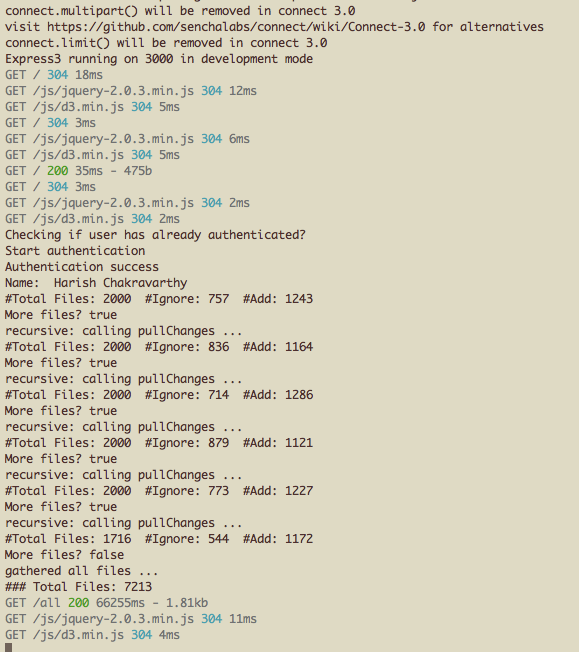
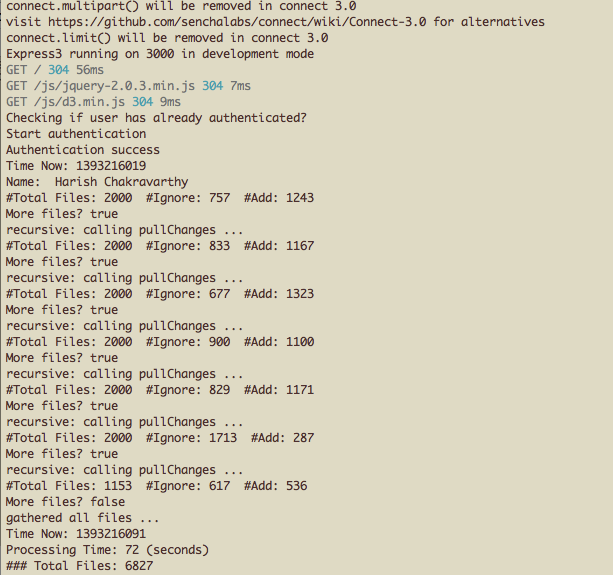
Add information about metadata, processing time  and minor content edits

Changed region(s): [[0.0, 0.0, 0.9326, 1.0]]

diff --git a/_posts/2014-02-17-dropbox-analytics.md b/_posts/2014-02-17-dropbox-analytics.md
@@ -7,15 +7,15 @@ keywords: "dropbox, analytics, integration, automate"
 ---
 Delighted to integrate with <a href="http://www.dropbox.com">Dropbox</a> API to provide analytics. 
 
-## Join Dropbox Developer & Register your app 
-Visit <a href="https://www.dropbox.com/developers/apps">https://www.dropbox.com/developers/apps</a> to register your app. You can run you app in ```localhost``` during development.
+## Register your app 
+Visit <a href="https://www.dropbox.com/developers/apps">https://www.dropbox.com/developers/apps</a> and register your app. You can run you app in ```localhost``` during development.
 
 ## Download dropbox-analytics
-You can visit <a href="https://github.com/harishvc/dropbox-analytics">https://github.com/harishvc/dropbox-analytics</a> and download the code. Checkout the ```README``` file
+Checkout my <a href="https://github.com/harishvc/dropbox-analytics">Dropbox Analytics</a> repository available on github written in ```node.js```
 
 ## Screen shots
 
-### Are you ready?  
+### Getting started  
 ![Are you ready?](/pics/dropbox-start.png)
 
 ### Console messages (when dubug flag is enabled)
@@ -26,3 +26,5 @@ You can visit <a href="https://github.com/harishvc/dropbox-analytics">https://gi
 ### Welcome screen
 ![dropbox welcome](/pics/dropbox-output.png)
 
+### Curious about the metadata coming from dropbox?
+![dropbox metadata](/pics/dropbox-metadata.png)
